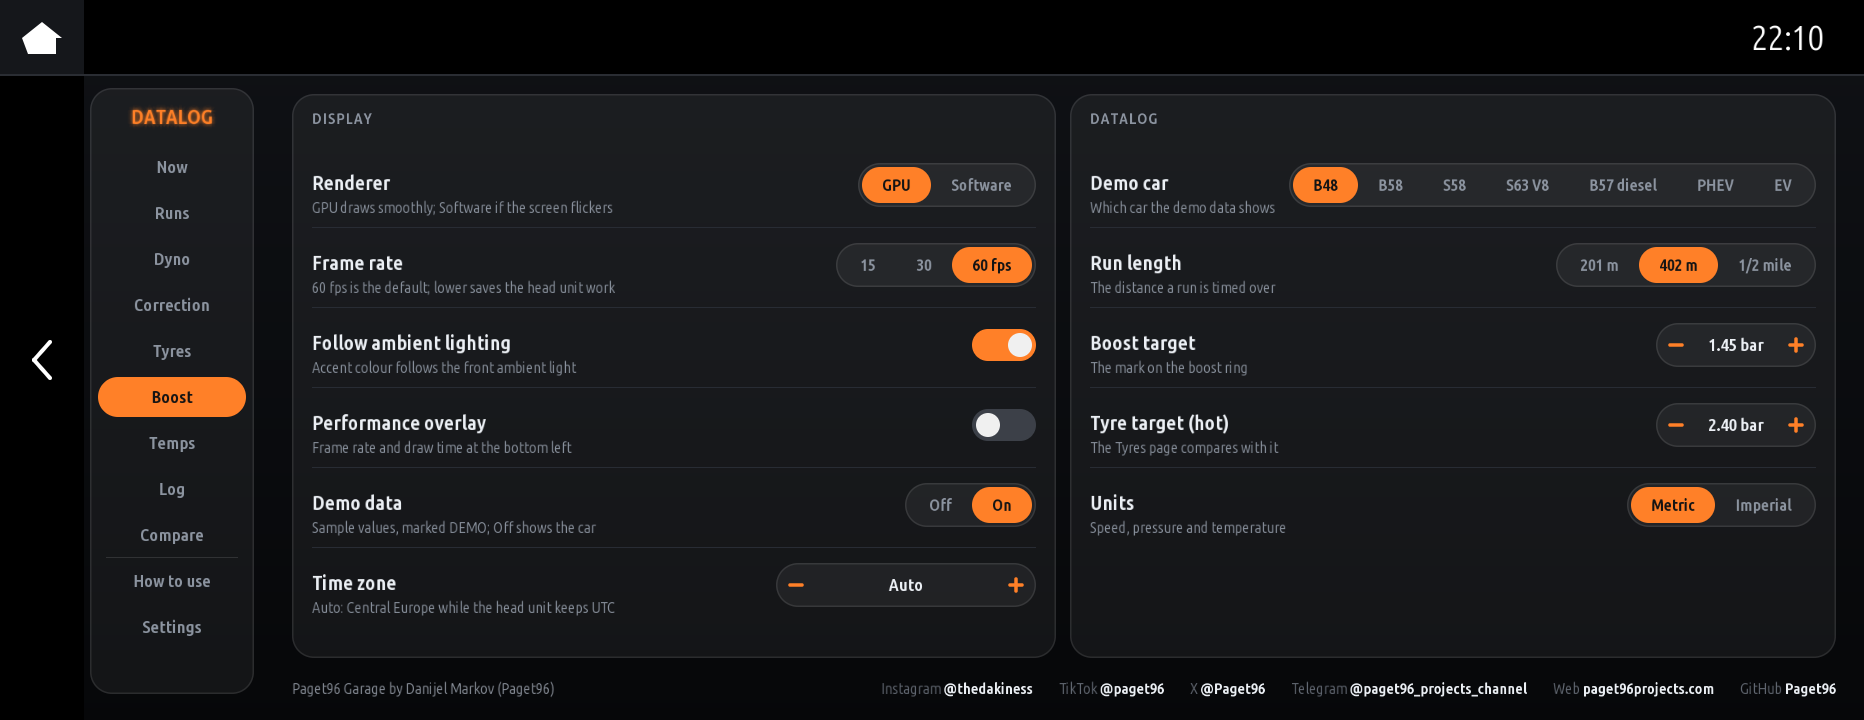
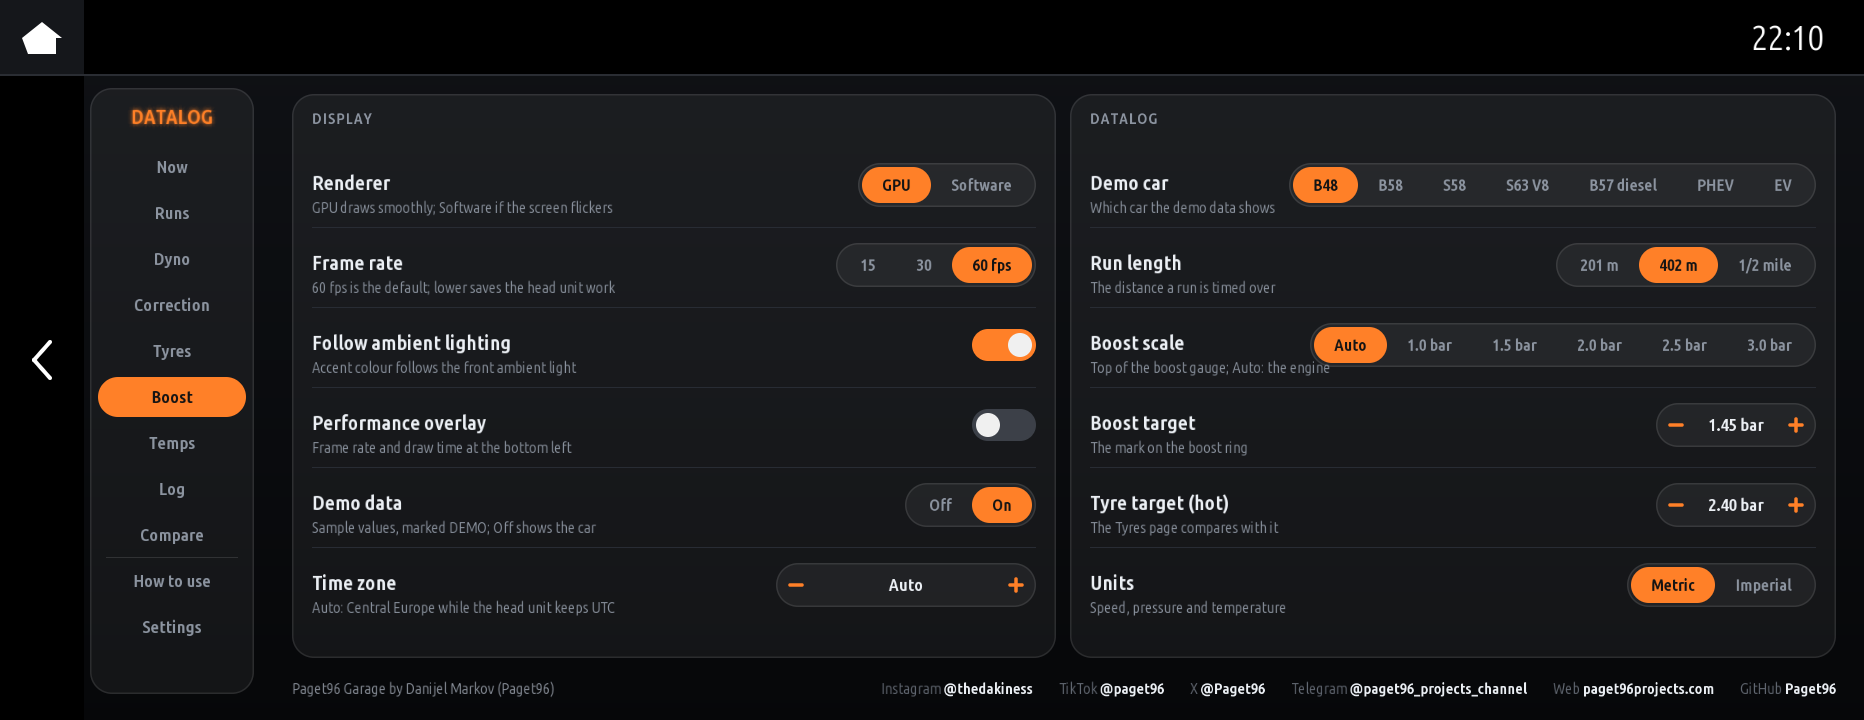
Car specific scales: rail pressure and boost from the engine, a setting overrides
lib/engine.js limits(): Auto takes the engine's figure, a number set in
Settings wins. Health's fuel rail gauge and Datalog's boost ring use it; both
apps offer the row in Settings. Pictures redrawn.

diff --git a/lib/engine.js b/lib/engine.js
@@ -230,5 +230,29 @@ function describe(p) {
     return bits.join(', ');
 }
 
-module.exports = { TWIN_INDEXES, DEMO_CARS, DEMO_ROW, RAIL, profile, demoCar, parseIndex, isTwinIndex, parseCylinders, parseFuel,
+/*
+ * The car's own limits (owner, 2026-11-26 22:20, Company D27: every pressure, redline and target is the car's; read it
+ * where the car tells it, else the user sets it). Auto takes the engine's figure (its fuel type and engine code, read
+ * from the car: OBD PID 51 and the engine unit), a number set in Settings wins. Every app that draws one of these
+ * offers the rows below in its Settings.
+ */
+const LIMIT_ROWS = {
+    railMax: { key: 'railMax', label: 'Fuel rail scale', hint: 'Top of the rail pressure gauge; Auto: the engine type', type: 'choice', default: 'auto',
+        options: [['auto', 'Auto'], [200, '200 bar'], [350, '350 bar'], [500, '500 bar'], [2000, '2 000 bar'], [2500, '2 500 bar'], [3000, '3 000 bar']] },
+    redline: { key: 'redline', label: 'Redline', hint: 'Where the rev scales turn red; Auto: the engine', type: 'choice', default: 'auto',
+        options: [['auto', 'Auto'], [4500, '4 500'], [5000, '5 000'], [5500, '5 500'], [6000, '6 000'], [6500, '6 500'], [7000, '7 000'], [7500, '7 500'], [8000, '8 000']] },
+    boostMax: { key: 'boostMax', label: 'Boost scale', hint: 'Top of the boost gauge; Auto: the engine', type: 'choice', default: 'auto',
+        options: [['auto', 'Auto'], [1, '1.0 bar'], [1.5, '1.5 bar'], [2, '2.0 bar'], [2.5, '2.5 bar'], [3, '3.0 bar']] },
+};
+/** The limits for this engine profile; get(key) reads a setting ('auto', a missing or odd value: the engine's figure). */
+function limits(p, get) {
+    p = p || {};
+    const val = (k) => { const v = get ? get(k) : null; const n = Number(v); return v === 'auto' || v == null || v === '' || !isFinite(n) || n <= 0 ? null : n; };
+    const rail = val('railMax') || (p.rail ? p.rail[1] : (p.diesel ? RAIL.diesel[1] : RAIL.petrol[1]));
+    const redline = val('redline') || p.redline || (p.diesel ? 5000 : 7000);
+    const boostMax = val('boostMax') || Math.max(1, Math.ceil(((p.boost || 1.5) + 0.35) * 2) / 2);
+    return { rail: rail, redline: redline, boostMax: boostMax };
+}
+
+module.exports = { LIMIT_ROWS, limits, TWIN_INDEXES, DEMO_CARS, DEMO_ROW, RAIL, profile, demoCar, parseIndex, isTwinIndex, parseCylinders, parseFuel,
     parseAdBlue, Detector, fileStore, filterName, filterLong, filterFigures, cylinderBanks, engineParts, describe };

diff --git a/apps/p96_health/view.js b/apps/p96_health/view.js
@@ -610,9 +610,10 @@ function engine(cv, S, V, A, t) {
     }
     if (railOnly) {
         UI.card(cv, rx, TOP, rw, UI.hh(), 'Fuel rail pressure', { info: info('rail') });
-        UI.ring(cv, rx + rw / 2, TOP + 210, 110, { value: ev.rail, min: 0, max: p.rail[1], decimals: 0, unit: 'bar', color: 'ok',
+        const railTop = E.limits(p, (k) => S.values && S.values[k]).rail;
+        UI.ring(cv, rx + rw / 2, TOP + 210, 110, { value: ev.rail, min: 0, max: railTop, decimals: 0, unit: 'bar', color: 'ok',
             scale: { step: p.diesel ? 500 : 50 } });
-        cv.text(p.diesel ? 'common rail: up to about ' + p.rail[1] + ' bar' : 'direct injection: up to about ' + p.rail[1] + ' bar', rx + rw / 2, TOP + 378, 15, C.dim, { align: 'center', literal: true });
+        cv.text(p.diesel ? 'common rail: scale to ' + railTop + ' bar' : 'direct injection: scale to ' + railTop + ' bar', rx + rw / 2, TOP + 378, 15, C.dim, { align: 'center', literal: true });
         return;
     }
     if (!right.length) return;
@@ -695,6 +696,7 @@ const APP_ROWS = [
     { key: 'nightly', label: 'Nightly battery check', hint: 'Reads the 12 V resting voltage after the car sleeps', type: 'choice', default: 'on', options: [['on', 'On'], ['off', 'Off']] },
     { key: 'batteryWarn', label: 'Battery warning at', hint: 'Warn when resting voltage stays below', type: 'number', default: 12.4, steps: [11.8, 11.9, 12.0, 12.1, 12.2, 12.3, 12.4, 12.5, 12.6], decimals: 2, unit: 'V' },
     { key: 'tyreWarn', label: 'Tyre warning at', hint: 'Warn when a tyre is this much lower than the others', type: 'number', default: 0.1, steps: [0.05, 0.1, 0.15, 0.2, 0.25, 0.3], decimals: 2, unit: 'bar' },
+    E.LIMIT_ROWS.railMax,
     { key: 'units', label: 'Units', hint: 'Pressure and temperature', type: 'choice', default: 'metric', options: [['metric', 'Metric'], ['imperial', 'Imperial']] },
     { key: 'intervals', label: 'Our intervals', hint: 'Oil, plugs, air filter, gearbox oil, coolant', type: 'choice', default: 'strict', options: [['strict', 'Strict'], ['car', 'As the car']] },
 ];

diff --git a/tests/limits.test.js b/tests/limits.test.js
@@ -1,0 +1,31 @@
+// SPDX-License-Identifier: GPL-3.0-only
+// Copyright (c) 2026 Danijel Markov (Paget96). Paget96 Garage. See NOTICE.
+'use strict';
+/** The car's own limits (lib/engine.js limits, Company D27): Auto from the engine, a setting wins. */
+const assert = require('assert');
+const path = require('path');
+const E = require(path.join(__dirname, '..', 'lib', 'engine'));
+let failed = 0;
+function test(name, fn) { try { fn(); console.log('ok   ' + name); } catch (e) { failed++; console.log('FAIL ' + name + '\n     ' + e.message); } }
+
+test('Auto: each engine its own rail scale, redline and boost scale', () => {
+    assert.deepStrictEqual(E.limits(E.demoCar('b48')), { rail: 350, redline: 6500, boostMax: 2 });
+    assert.strictEqual(E.limits(E.demoCar('b57')).rail, 2700);
+    assert.strictEqual(E.limits(E.demoCar('b57')).redline, 4800);
+    assert.strictEqual(E.limits(E.demoCar('s58')).boostMax, 2.5);
+});
+test('a number set in Settings wins; auto, empty or odd values keep the engine figure', () => {
+    const set = { railMax: 500, redline: '7500', boostMax: 'auto' };
+    assert.deepStrictEqual(E.limits(E.demoCar('b48'), (k) => set[k]), { rail: 500, redline: 7500, boostMax: 2 });
+    assert.strictEqual(E.limits(E.demoCar('b48'), () => 'x').rail, 350);
+    assert.strictEqual(E.limits(E.demoCar('b48'), () => -1).redline, 6500);
+});
+test('an unknown car: petrol figures, a diesel its own', () => {
+    assert.strictEqual(E.limits({}).rail, 350);
+    assert.strictEqual(E.limits({ diesel: true }).rail, 2700);
+});
+test('the Settings rows default to Auto', () => {
+    Object.keys(E.LIMIT_ROWS).forEach((k) => { assert.strictEqual(E.LIMIT_ROWS[k].default, 'auto', k); assert.strictEqual(E.LIMIT_ROWS[k].options[0][0], 'auto', k); });
+});
+console.log(failed ? failed + ' failed' : 'all passed');
+process.exit(failed ? 1 : 0);

diff --git a/apps/p96_datalog/pages.js b/apps/p96_datalog/pages.js
@@ -153,7 +153,7 @@ function pageNow(cv, m, t) {
     }
     if (boost) {
         UI.ring(cv, 196, T + Math.round(UI.hh() / 2), Math.min(170, Math.round(UI.hh() * 0.3)), {
-            value: U.press(v.boost), min: U.press(-1) < 0 ? U.press(-1) : -1, max: U.press(2), decimals: U.pressD,
+            value: U.press(v.boost), min: U.press(-1) < 0 ? U.press(-1) : -1, max: U.press(E.limits(m.car(), (k) => m.setting(k)).boostMax), decimals: U.pressD,
             unit: U.pressU + ', target ' + fix(U.press(target), U.pressD), label: 'Boost', color: 'accent',
             scale: U.imp ? { step: 10, decimals: 0 } : { step: 0.5, decimals: 1 }, target: U.press(target), info: INFO.boost,
         });
@@ -729,7 +729,7 @@ function draw(cv, m, t) {
         const vals = {};
         UI.DISPLAY_SETTINGS.concat(APP_ROWS).forEach((r) => { vals[r.key] = m.setting(r.key); });
         vals.demoCar = m.setting('demoCar');
-        const rows = (m.isDemo() ? [E.DEMO_ROW] : []).concat(APP_ROWS.filter((r) => (r.key === 'boostTarget' ? m.has('boost') : r.key === 'tyreTarget' ? m.has('tyres') : true)));
+        const rows = (m.isDemo() ? [E.DEMO_ROW] : []).concat(APP_ROWS.filter((r) => (r.key === 'boostTarget' || r.key === 'boostMax' ? m.has('boost') : r.key === 'tyreTarget' ? m.has('tyres') : true)));
         UI.settingsPage(cv, rows, vals, (k, val) => { if (m.settings) m.settings.set(k, val); }, { title: NAME, appLabel: 'Datalog',
             onBack: () => { ui.view = 'main'; }, onHelp: () => { ui.view = 'help'; }, onReport: m.report ? () => m.report.open() : null });
     } else {

diff --git a/apps/p96_datalog/model.js b/apps/p96_datalog/model.js
@@ -194,6 +194,7 @@ const num = (x) => (typeof x === 'number' && isFinite(x) ? x : null);
 /** The app's own settings (after the Display block), in the shape of app.json "settings". */
 const APP_ROWS = [
     { key: 'runLength', label: 'Run length', hint: 'The distance a run is timed over', type: 'choice', default: 402, options: [[201, '201 m'], [402, '402 m'], [804, '1/2 mile']] },
+    E.LIMIT_ROWS.boostMax,
     { key: 'boostTarget', label: 'Boost target', hint: 'The mark on the boost ring', type: 'number', default: 1.45, min: 0.3, max: 3, step: 0.05, decimals: 2, unit: 'bar' },
     { key: 'tyreTarget', label: 'Tyre target (hot)', hint: 'The Tyres page compares with it', type: 'number', default: 2.4, min: 1.5, max: 3.5, step: 0.05, decimals: 2, unit: 'bar' },
     { key: 'units', label: 'Units', hint: 'Speed, pressure and temperature', type: 'choice', default: 'metric', options: [['metric', 'Metric'], ['imperial', 'Imperial']] },
